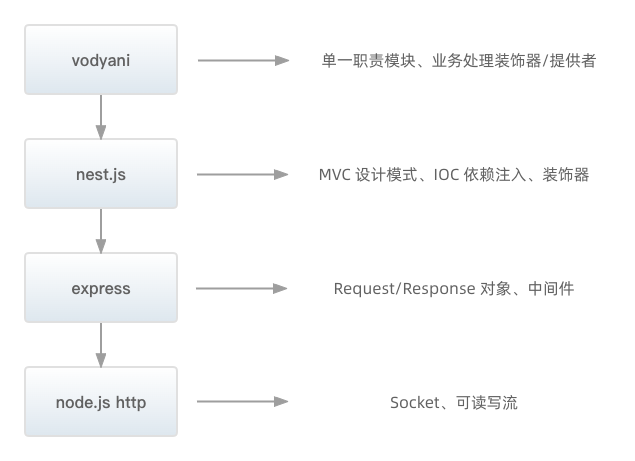
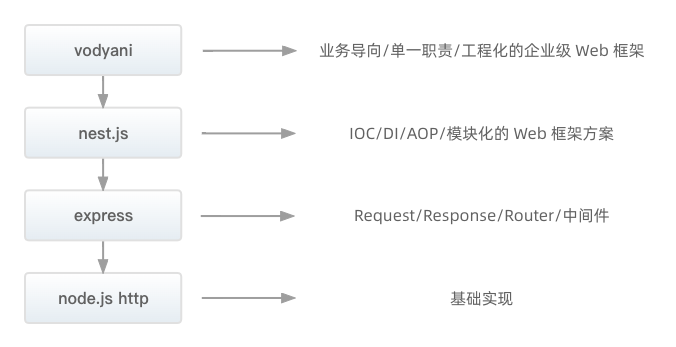
docs: update

diff --git a/docusaurus.config.js b/docusaurus.config.js
@@ -3,8 +3,8 @@
 
 /** @type {import('@docusaurus/types').Config} */
 const config = {
-  title: 'VODYANI',
-  tagline: '构建 Node.js 服务端项目的不二选择。',
+  title: 'Vodyani',
+  tagline: '构建企业级 web 框架的不二之选 ✨',
   url: 'https://vodyani.vercel.app',
   baseUrl: '/',
   onBrokenLinks: 'throw',

diff --git a/i18n/en/docusaurus-plugin-content-pages/index.tsx b/i18n/en/docusaurus-plugin-content-pages/index.tsx
@@ -17,7 +17,7 @@ function HomepageHeader() {
           {/* todo: build en doc */}
           <Link
             className="button button--secondary button--lg"
-            to="/docs/intro">
+            to="/docs/quick-started">
             🛸 Get Started
           </Link>
         </div>

diff --git a/src/pages/index.tsx b/src/pages/index.tsx
@@ -17,7 +17,7 @@ function HomepageHeader() {
           <Link
             className="button button--secondary button--lg"
             to="/docs/quick-started">
-            🛸 Get Started
+            🛸 快速开始
           </Link>
         </div>
       </div>

diff --git a/docs/intro.md b/docs/intro.md
@@ -4,40 +4,43 @@ slug: intro
 title: 介绍
 ---
 
-**Vodyani 是一个解决业务开发的 http 服务端脚手架。**
+**vodyani 是一个企业级 web 框架 🥳**
 
-vodyani 基于 [nest.js](https://github.com/nestjs/nest) 开发，针对 node.js 服务端开发中的常见场景进行了易用的，友好的封装。
+vodyani 基于 [nest.js](https://github.com/nestjs/nest) 开发，针对 node.js 服务端开发中的常见场景进行了易用的，友好的封装。我们希望开发者可以通过 vodyani 解决工程化和业务开发中遇到的实际问题，从而显著地提升交付质量。
 
-vodyani 的愿景是让 node.js 服务端开发者能够有一个基础的、拿来即用的脚手架。这个脚手架中将包含合理的层级设计、目录规范、编码规范（eslint）、单元测试等一系列工程化要素。
+## 设计原则
 
 ![](../static/img/vodyani-intro.png)
 
-## 站在 nest.js 的肩膀上
+早期的 node.js 开发者使用内置的 http 模块用来监听端口并处理请求响应，但是它的 api 过于原始，所以 express 的出现解决了 request、response 的 api 封装，以及提供了中间件来帮助开发者构建自己的洋葱模型。
 
-近年来，node.js 作为前端和服务端的 “通用语言” 产生了很多影响巨大的框架，如 Angular，React 和 Vue，它们提高了开发人员的工作效率，并能够快速构建可测试和可扩展的前端应用程序。
+诚然 node.js 存在大量优秀的库工具，但它们都没有有效地解决主要问题 —— 架构。要解决架构问题，避免不了优秀的设计模式和框架约束。egg.js、midway.js、nest.js 的出现也是这一结论的有效佐证。
 
-服务端开发者可以使用 node.js 自带的 http 模块用来监听端口、处理请求响应，但是它的 api 过于原始，所以 express 的出现解决了 request、response 的 api 封装，以及提供了中间件来帮助开发者构建自己的洋葱模型。
+在内部，nest.js 非常巧妙的结合了装饰器和反射机制，帮助我们将不同的类来自动注入到框架内部的 IOC 容器，把类的依赖，引用，初始化委托给了 nest.js 本身。这样我们就降低了一些隐形的维护成本，比如我们不需要关心以往面向过程式的调用关系。不需要传递复杂的请求上下文，极大程度地降低了代码结构的复杂度，减少了开发人员的心智负担。
 
-然而，虽然 node.js 在服务端领域存在大量优秀的库工具，但它们都没有有效地解决主要问题 —— 架构。要解决架构问题，避免不了优秀的设计模式和框架约束。Egg.js、Midway.js、Nest.js 的出现也是这一结论的有效佐证。
+在外层，nest.js 提供了基础的 module、controller、provider 作为顶层设计，并提供了丰富的模块来支持 web 应用开发。
 
-在内部，nest.js 非常巧妙的结合了 TS 中的装饰器和反射机制，帮助我们将不同的类来自动注入到框架内部的 IoC 容器，把类的依赖，引用，初始化委托给了 nest.js 本身。这样我们就降低了一些隐形的维护成本，比如我们不需要关心以往面向过程式的调用关系。不需要传递复杂的请求上下文，极大程度地降低了代码结构的复杂度，减少了开发人员的心智负担。
+**但是 nest.js 做到的还远远不够 🥺：**
 
-在外层，nest.js 提供了基础的 module、controller、provider 作为顶层设计，并提供了丰富的模块来支持服务端应用开发。
+* 我们需要定义项目的层级如何设计、模块如何划分、业务数据之间如何转换、模块之间如何进行组织。这些问题其实才是留给开发者最大的挑战。
+* nest.js 提供的 AOP 机制（如过滤器，拦截器，管道，守卫等）最低的作用层级只能到 controller。
+* nest.js 中没有提供基于装饰器实现 provider 层数据对象的传输，校验，转换的方案。
+* nest.js 中的 config 模块功能过于基础，没有和远程配置中心结合使用的方案。
+* nest.js 中各种 client 模块不支持配置更新后动态重建服务中的客户端（如 MySQL、Redis）。
 
-但是 nest.js 做到的还远远不够：
+综上所述，在实际业务的开发中我们需要比 nest.js 更加业务导向的企业级框架
 
-1. nest.js 提供的（过滤器，拦截器，管道，守卫等）只能在 controller 中使用，provider 如果想加入切面机制只能通过开发者自己实现，如自定义装饰器、函数改造等。
-2. 数据对象的传输，校验，转换如何处理？在 controller 中我们可以基于 pipe 和 interceptor 来进行处理，但在 provider 中呢？
-3. 如何结合远程配置中心，使得配置中心的数据更新后，自动重建服务中的客户端（如 MySQL、Redis）？
-4. 层级如何设计？模块如何划分？模块之间如何进行组织？这些问题其实才是留给使用者最大的挑战。
+## 特性介绍
 
-## vodyani 的强大功能
+**vodyani 在 nest.js 的基础上针对层级、代码、目录组织方式进行封装，并且提供了丰富的基础模块和工具 🤩**
 
-1. 在 nest.js 的基础上，针对层级和模块组织方式进行封装，并且提供了业务开发中一些常用的工具。
-2. 基于 class-transformer + class-validator 进行封装，并提供易用的 class-decorator 模块，开发者可以使用对应的装饰器，对提供者提供 AOP 切面功能（转换、校验）。
-3. 提供 ark 配置管理模块，你可以通过定义本地文件 + 定义远程配置中心引入的方式，轻松的管理，读取，写入全局配置。并且通过实现客户端适配器接口，开发者可以轻松的将客户端适配器注入到 ark 的动态数据源中进行动态部署。
-4. 提供 DTO/DO/VO 三层数据。分别对应 `controller 请求输入`，`domain 处理中`，`controller 响应输出` 这三种数据处理状态。
+* vodyani 根据项目接口的层级封装了 api/core/domain/infrastructure。分别对应 应用接口层，核心定义层，领域服务层，基础设施层。
+* vodyani 根据业务数据的流向封装了 DTO/DO/VO。分别对应 请求数据输入，领域服务处理中，响应数据输出。
+* vodyani 内置了易用的 class-decorator 装饰器工具模块，开发者通过声明对应的装饰器，就能在任意类中开启 AOP 功能。
+* vodyani 内置了强大的 ark（方舟）配置管理模块，通过本地配置文件或引入配置中心的方式，就可以轻松的管理全局配置；并且支持各类 client provider 跟随配置变化进行进行动态重建。
+* vodyani 提供了易用的 dust（星尘）多线程模块，通过引入模块并声明线程 worker 就可以体验 多线程/线程池 的强大威力。
  
-## vodyani 的后续规划
+## 版本介绍
 
-1. Vodyani 的版本将始终跟随 nest.js 的 `major` 版本号进行迭代，除非 nest.js 不再进行维护。
+* vodyani 的最低 `major` 版本为 `8.x`，对应 nest.js `8.x`。
+* vodyani 的版本将始终跟随 nest.js 的 `major` 版本号进行迭代和改造，除非 nest.js 不再进行维护。

diff --git a/docs/quick-started.md b/docs/quick-started.md
@@ -8,10 +8,10 @@ title: 快速开始
 
 > 如果需要帮助，请参考 [如何安装 Node.js 环境](./q&a/how-install-node)。
 
-- 操作系统：支持 macOS，Linux，Windows。
-- 运行环境：建议选择 [LTS](https://nodejs.org/en/) 版本，最低要求 12.x。
+- 操作系统：支持 MacOS，Linux，Windows。
+- 运行环境：建议选择 Node.js [LTS](https://nodejs.org/en/) 版本，最低要求 16.14。
 
-## 安装
+## 🏭 安装和构建
 
 1. 建议您使用 CLI 工具 来简化项目初始化流程，首先执行安装命令：
 
@@ -25,13 +25,13 @@ npm install -g @vodyani/cli
 vodyani new
 ```
 
-3. CLI 工具会提示您输入项目名，如果没有输入，默认的项目名是 vodyani
+3. CLI 工具会引导您输入项目名，如果没有输入，默认的项目名是 vodyani
 
 ```bash
 ? Enter the name you want to create, if the name has more than one word please use `-` split. (vodyani)
 ```
 
-4. CLI 工具会提示您是否安装依赖
+4. CLI 工具会引导您安装依赖
 
 ```bash
 ? Do you need auto install all? (Use arrow keys)
@@ -52,7 +52,7 @@ vodyani new
  vodyani project: vodyani is created 🎉
 ```
 
-## 启动
+## 🚀 启动服务
 
 最后一步，我们在项目根目录下执行命令：
 
@@ -62,10 +62,10 @@ npm run start
 
 等待片刻，您的第一个 Vodyani 服务就会在 `http://localhost:3000` 成功启动 🎉 ~
 
-## 遇到问题？
+## 👋 遇到问题？
 
 <br/>
 
 :::info 👉🏻 [discussions](https://github.com/vodyani/vodyani/discussions)
-描述你的问题，提供尽可能详细的复现方法和场景。
+描述您的问题，并提供尽可能详细的复现方法和场景 😲
 :::
